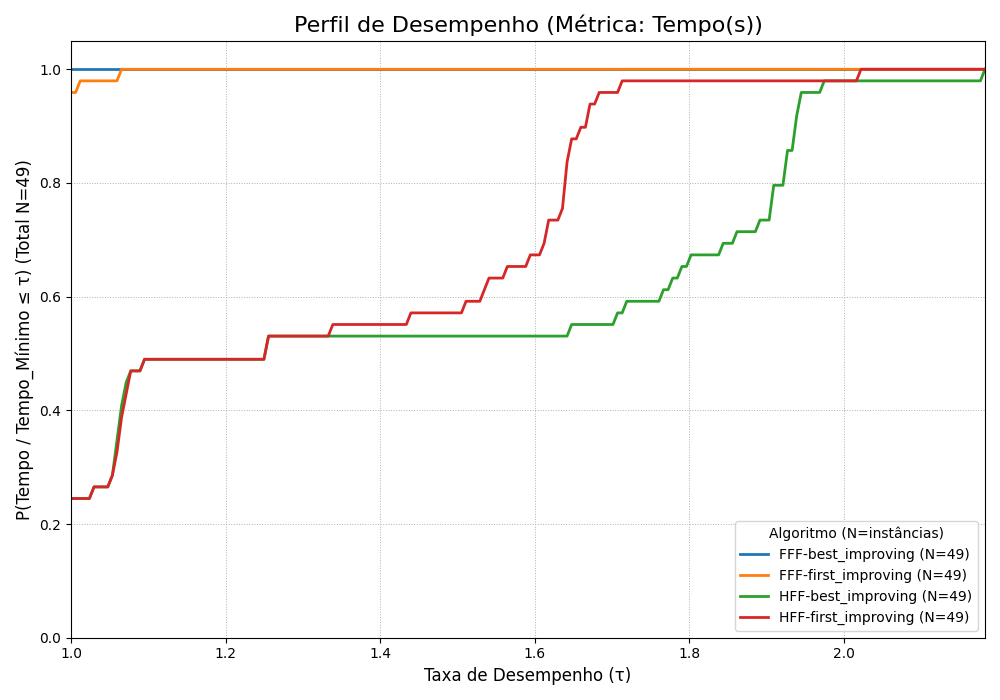
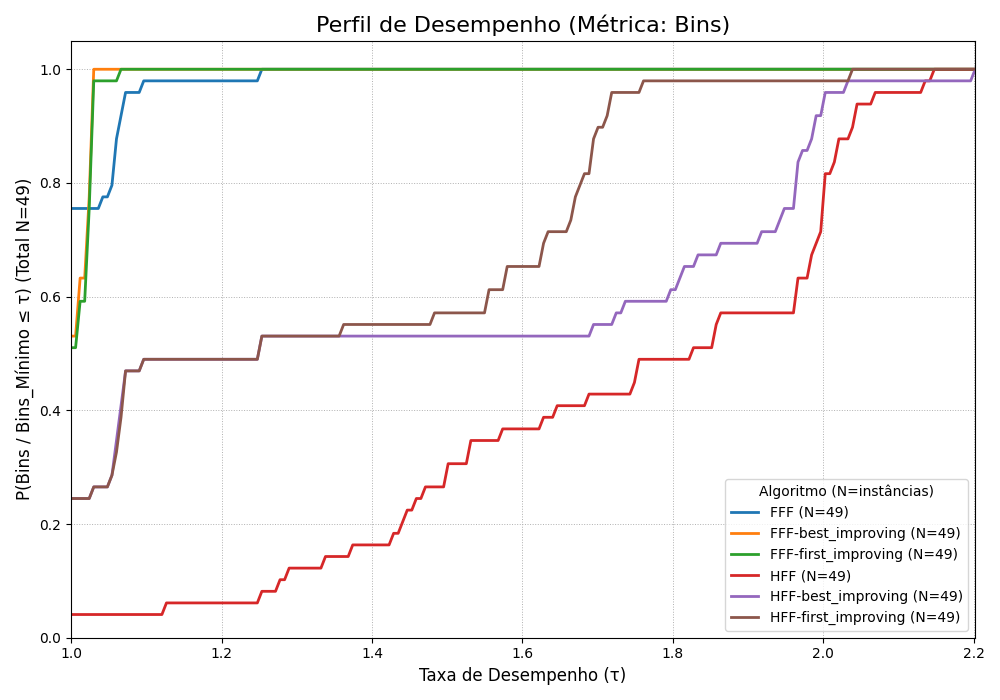
Colocando as heurísticas sem GRASP no performance profile

diff --git a/src/performance_profile.py b/src/performance_profile.py
@@ -2,21 +2,61 @@ import pandas as pd
 import numpy as np
 import matplotlib.pyplot as plt
 
-CSV_FILE_PATH = 'results/resultados_grasp.csv'
+GRASP_CSV_PATH = 'results/resultados_grasp.csv'
+HEURISTICS_CSV_PATH = 'results/resultados_heuristicas.csv'
 OUTPUT_FILENAME = "results/performance_profile.png"
 
+all_data_frames = []
 try:
-    df = pd.read_csv(CSV_FILE_PATH)
-except FileNotFoundError:
-    print(f"ERRO: Arquivo não encontrado no caminho: {CSV_FILE_PATH}")
-    raise
-except Exception as e:
-    print(f"Um erro ocorreu ao ler o CSV: {e}")
-    raise
+    df_grasp = pd.read_csv(GRASP_CSV_PATH)
+    
+    df_grasp['algorithm'] = df_grasp['Construcao'] + '-' + df_grasp['Busca']
+    
+    df_grasp = df_grasp.rename(columns={'Instancia': 'instance', 'Bins': 'metric_value'})
+    
+    df_grasp['metric_value'] = pd.to_numeric(df_grasp['metric_value'], errors='coerce')
+    df_grasp = df_grasp.dropna(subset=['metric_value'])
+    
+    all_data_frames.append(df_grasp[['instance', 'algorithm', 'metric_value']])
+    print(f"Dados GRASP (de {GRASP_CSV_PATH}) carregados com sucesso.")
 
-df['algorithm'] = df['Construcao'] + '-' + df['Busca']
-df = df.rename(columns={'Instancia': 'instance', 'Bins': 'metric_value'})
-data_to_plot = df[['instance', 'algorithm', 'metric_value']]
+except FileNotFoundError:
+    print(f"AVISO: Arquivo GRASP não encontrado em: {GRASP_CSV_PATH}")
+except Exception as e:
+    print(f"Um erro ocorreu ao ler o CSV do GRASP: {e}")
+
+try:
+    df_heuristics = pd.read_csv(HEURISTICS_CSV_PATH)
+    
+    df_heuristics = df_heuristics.rename(columns={
+        'Instancia': 'instance',
+        'Metodo': 'algorithm',
+        'Bins': 'metric_value'
+    })
+    
+    if pd.api.types.is_string_dtype(df_heuristics['metric_value']):
+        df_heuristics = df_heuristics[df_heuristics['metric_value'].str.upper() != 'INVIÁVEL']
+
+    df_heuristics['metric_value'] = pd.to_numeric(df_heuristics['metric_value'], errors='coerce')
+    
+    # Remover quaisquer linhas que falharam na conversão (viraram NaN)
+    df_heuristics = df_heuristics.dropna(subset=['metric_value'])
+
+    all_data_frames.append(df_heuristics[['instance', 'algorithm', 'metric_value']])
+    print(f"Dados de Heurísticas (de {HEURISTICS_CSV_PATH}) carregados com sucesso.")
+
+except FileNotFoundError:
+    print(f"AVISO: Arquivo de Heurísticas não encontrado em: {HEURISTICS_CSV_PATH}")
+except Exception as e:
+    print(f"Um erro ocorreu ao ler o CSV de Heurísticas: {e}")
+
+
+if not all_data_frames:
+    print("ERRO CRÍTICO: Nenhum arquivo de dados foi carregado. Saindo.")
+    raise SystemExit("Nenhum dado encontrado para processar.")
+
+# Combinar todos os dataframes carregados em um só
+data_to_plot = pd.concat(all_data_frames, ignore_index=True)
 
 best_overall = data_to_plot.groupby('instance')['metric_value'].min().reset_index()
 best_overall = best_overall.rename(columns={'metric_value': 'best_value_overall'})
@@ -29,7 +69,7 @@ merged_data['ratio'] = merged_data['metric_value'] / merged_data['best_value_ove
 # Lidar com casos especiais
 merged_data['ratio'] = merged_data['ratio'].replace([np.inf, -np.inf], np.nan)
 merged_data.loc[(merged_data['best_value_overall'] == 0) & (merged_data['metric_value'] == 0), 'ratio'] = 1
-merged_data = merged_data.fillna(np.inf)
+merged_data = merged_data.fillna(np.inf) 
 
 # Preparar para o plot
 algorithms = sorted(merged_data['algorithm'].unique())
@@ -68,10 +108,10 @@ for alg in algorithms:
     label_text = f"{alg} (N={instance_counts.get(alg, 0)})"
     plt.plot(tau_range, probabilities, label=label_text, linewidth=2)
 
-# Formatar o gráfico
-plt.title("Perfil de Desempenho (Métrica: Tempo(s))", fontsize=16)
+# O seu código usava 'Bins' como a métrica, então ajustei os títulos
+plt.title("Perfil de Desempenho (Métrica: Bins)", fontsize=16)
 plt.xlabel("Taxa de Desempenho (τ)", fontsize=12)
-plt.ylabel(f"P(Tempo / Tempo_Mínimo ≤ τ) (Total N={num_instances})", fontsize=12)
+plt.ylabel(f"P(Bins / Bins_Mínimo ≤ τ) (Total N={num_instances})", fontsize=12)
 plt.grid(True, linestyle=':', linewidth=0.7)
 plt.legend(loc='lower right', fontsize=10, title="Algoritmo (N=instâncias)")
 plt.xlim(1, plot_max_tau)
